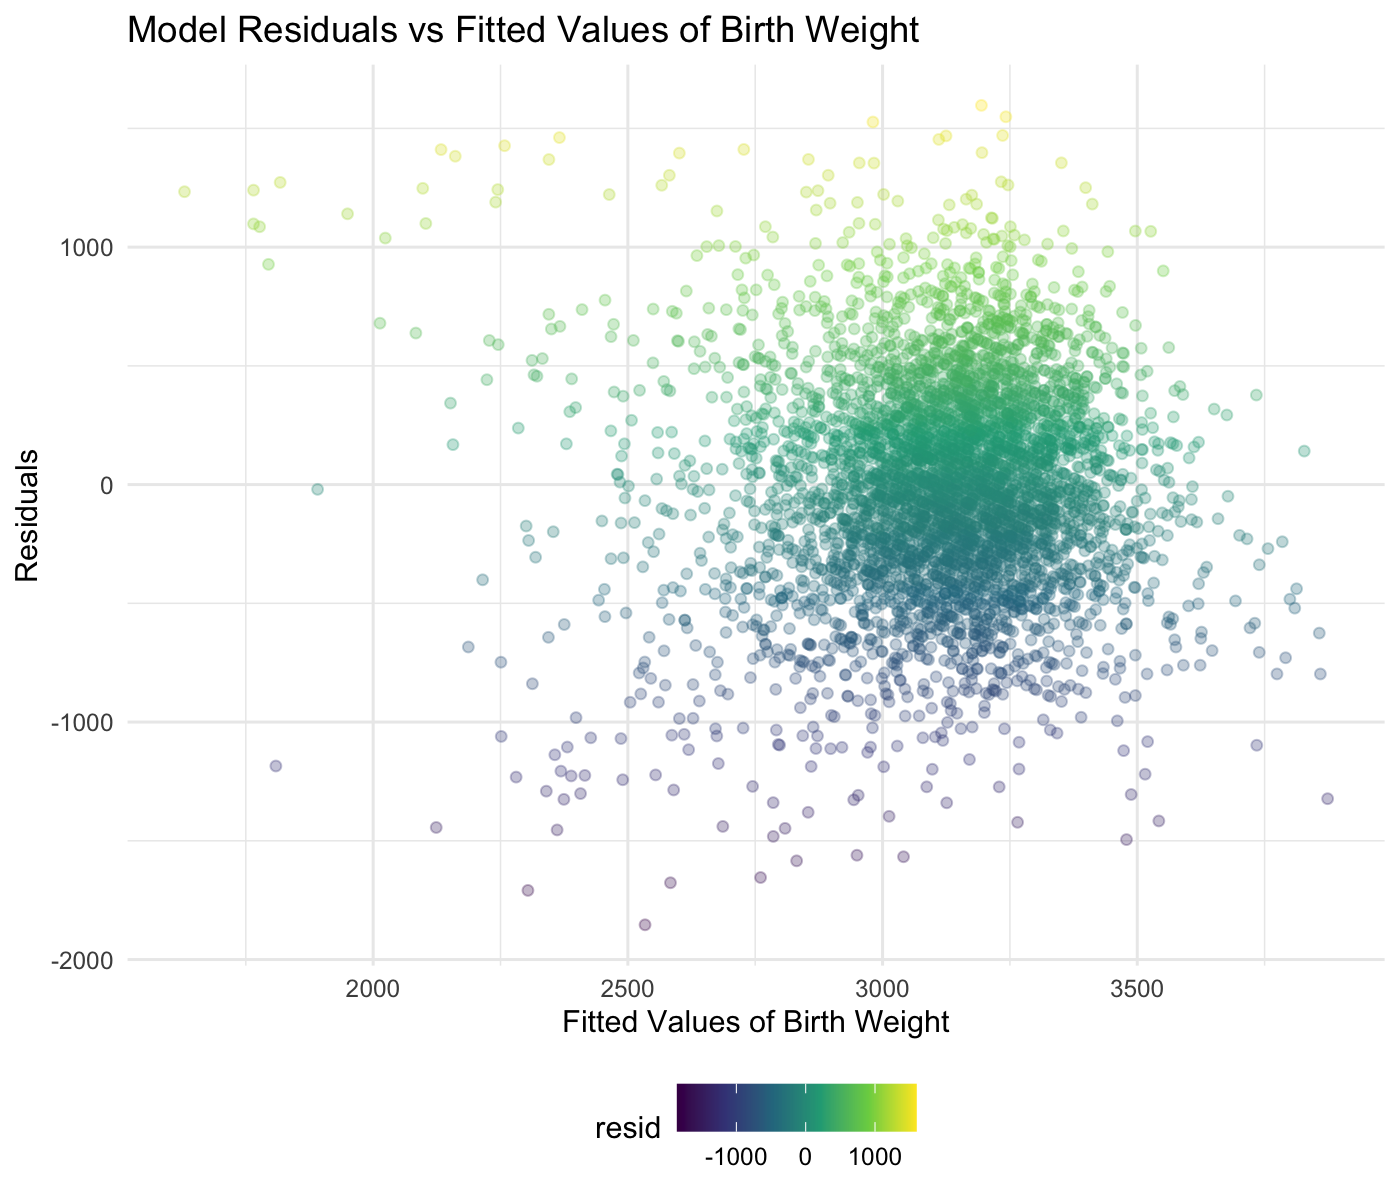
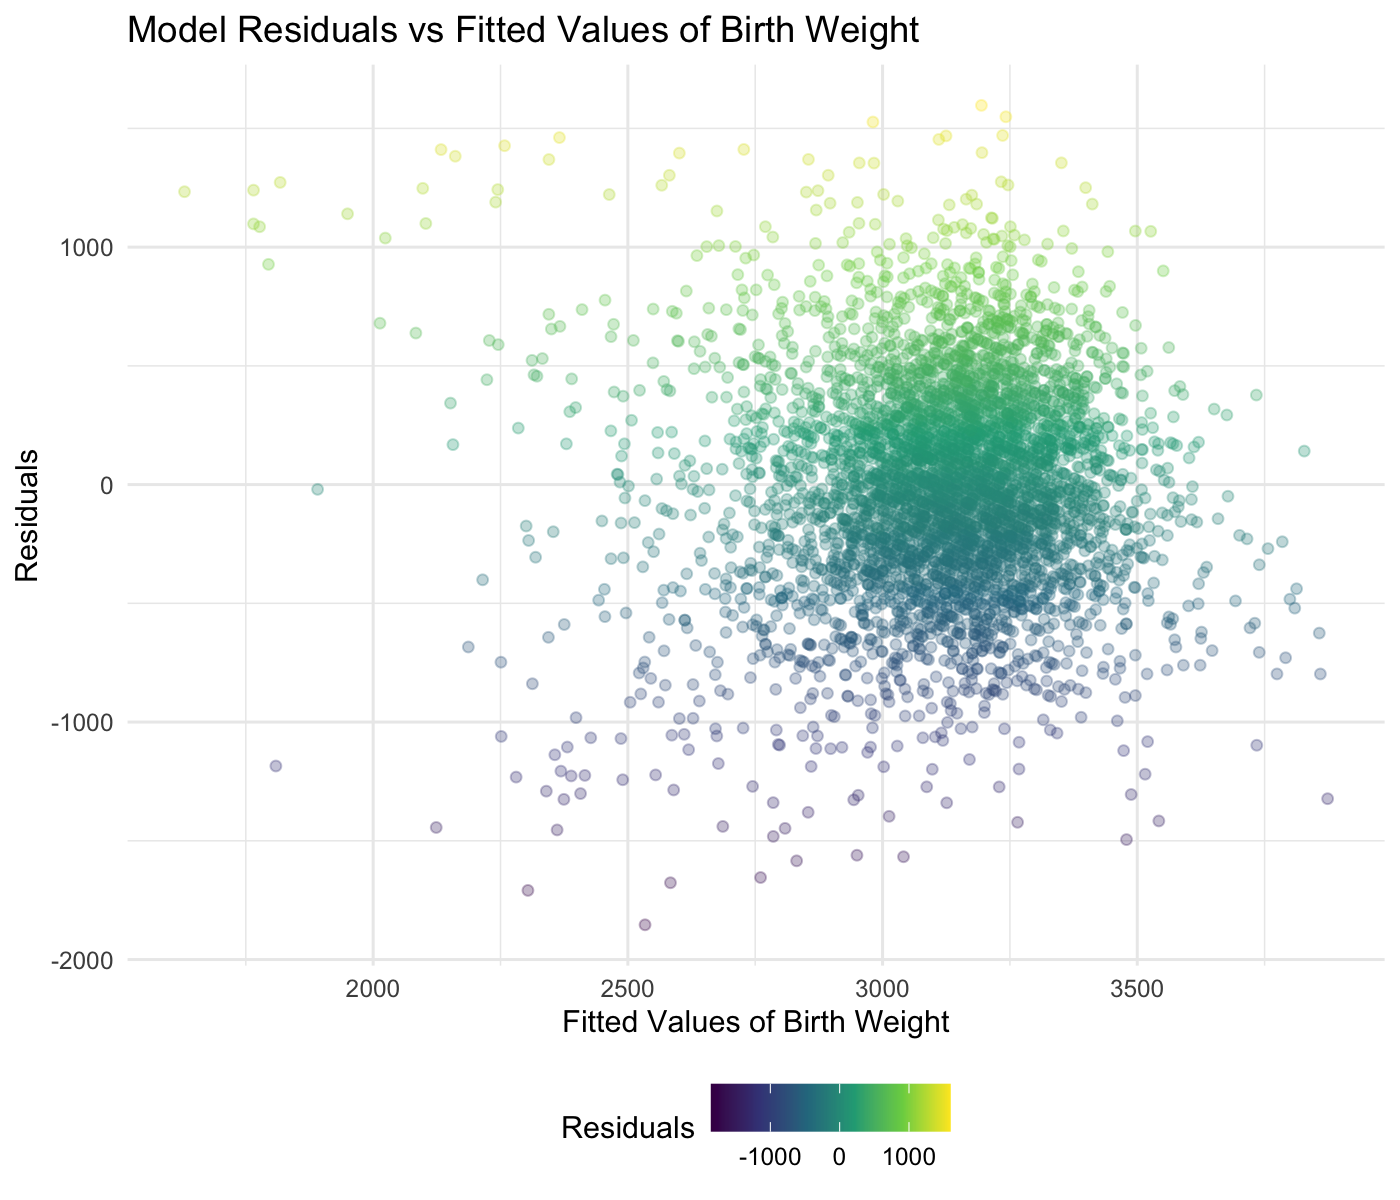
Problem 3 -- model comparison by `crossv_mc`

Changed region(s): [[0.3993, 0.8942, 0.6757, 0.9867]]

diff --git a/p8105_hw6_sg3889.md b/p8105_hw6_sg3889.md
@@ -312,8 +312,39 @@ birthweight %>%
   labs(
     x = "Fitted Values of Birth Weight",
     y = "Residuals",
+    color = "Residuals",
     title = "Model Residuals vs Fitted Values of Birth Weight"
   )
 ```
 
 <img src="p8105_hw6_sg3889_files/figure-gfm/unnamed-chunk-14-1.png" width="90%" />
+
+### Comparison across Models by Cross Validation
+
+- One using length at birth (`blength`) and gestational age (`gaweeks`)
+  as predictors (main effects only)
+- One using head circumference (`bhead`), length (`blength`), sex
+  (`babysex`), and all interactions (including the three-way
+  interaction) between these
+
+``` r
+cv_df = 
+  crossv_mc(birthweight, 100) %>% 
+  mutate(
+    train = map(train, as_tibble),
+    test = map(test, as_tibble)
+  ) 
+
+cv_df = 
+  cv_df %>% 
+  mutate(
+    hypothesized_fits = map(.x = train, ~ lm(bwt ~ fincome + gaweeks + momage + parity + ppbmi + smoken, data = .x)),
+    main_effect_fits  = map(.x = train, ~ lm(bwt ~ blength + gaweeks, data = .x)),
+    interaction_fits  = map(.x = train, ~ lm(bwt ~ bhead * blength * babysex , data = .x))
+  ) %>% 
+  mutate(
+    rmse_hypothesized = map2_dbl(.x = hypothesized_fits, .y = test, ~ rmse(model = .x, data = .y)),
+    rmse_main_effect  = map2_dbl(.x = main_effect_fits,  .y = test, ~ rmse(model = .x, data = .y)),
+    rmse_interaction  = map2_dbl(.x = interaction_fits,  .y = test, ~ rmse(model = .x, data = .y))
+  )
+```
